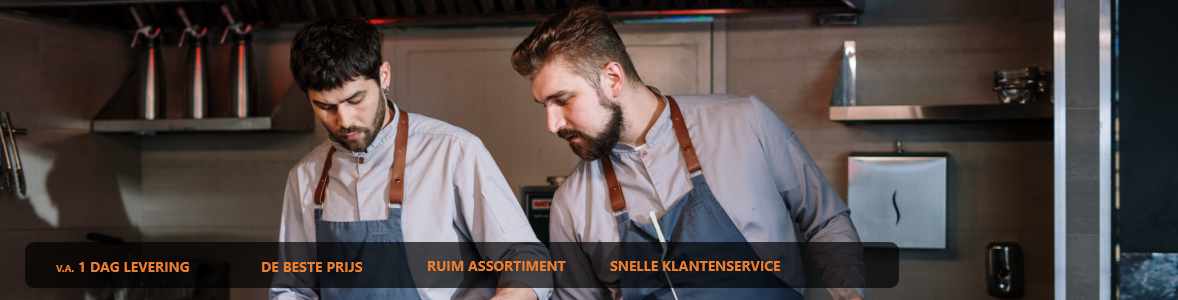
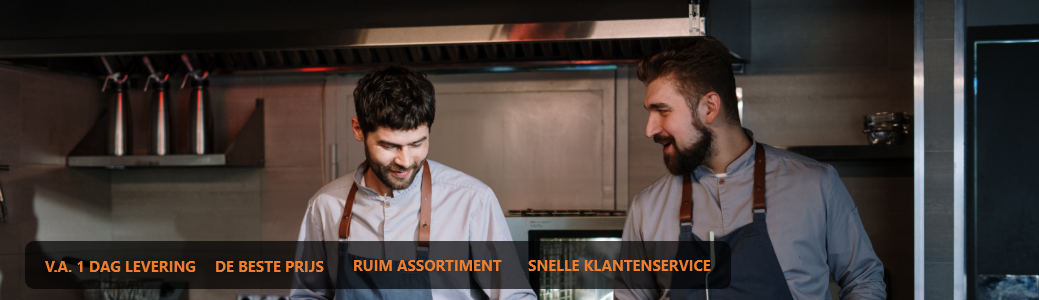
Various changes

diff --git a/skin/frontend/rwd/dhh/css/styles.css b/skin/frontend/rwd/dhh/css/styles.css
@@ -10029,14 +10029,6 @@ section.cms .ico-pinterest {
   z-index: 2;
 }
 
-.marker--active .marker__content {
-  z-index: 3;
-  opacity: 1;
-  -webkit-transform: scale(1);
-  -ms-transform: scale(1);
-  transform: scale(1);
-}
-
 .marker__btn {
   position: relative;
   z-index: 1;
@@ -10089,29 +10081,6 @@ section.cms .ico-pinterest {
 
 .marker__btn--white:after {
   border-color: #fff;
-}
-
-.marker__content {
-  position: absolute;
-  top: -40px;
-  left: 50%;
-  display: block;
-  margin-left: -110px;
-  width: 220px;
-  opacity: 0;
-  -webkit-transition: opacity .3s ease, -webkit-transform .3s ease;
-  transition: transform .3s ease, opacity .3s ease;
-  transition: transform .3s ease, opacity .3s ease, -webkit-transform .3s ease;
-  -webkit-transform: scale(0);
-  -ms-transform: scale(0);
-  transform: scale(0);
-  -webkit-transform-origin: 50% 44px;
-  -ms-transform-origin: 50% 44px;
-  transform-origin: 50% 44px;
-}
-
-.marker__content .product {
-  border-bottom: 0;
 }
 
 .figure__caption {
@@ -13598,17 +13567,18 @@ i.breadcrumb-separator {
 .clzinfopagetop,
 .clzinfopagetop a {
   color: #f3f3f3;
-  text-decoration: none;
 }
 
 .clzinfopagetop a {
   padding: 2px;
   border: 1px solid transparent;
   border-radius: 2px;
+  text-decoration: underline;
+  text-decoration-color: #fff;
 }
 
 .clzinfopagetop a:hover {
-  text-decoration: none;
+  /* text-decoration: none; */
   border: 1px solid #f3f3f3;
 }
 

diff --git a/app/code/local/DeHeerHoreca/Fpc/Helper/Data.php b/app/code/local/DeHeerHoreca/Fpc/Helper/Data.php
@@ -114,7 +114,18 @@ class DeHeerHoreca_Fpc_Helper_Data extends Mage_Core_Helper_Abstract {
       
       if($cache_key_prefix === "catalog_product_view") {
         $id = (int) Mage::app()->getFrontController()->getAction()->getRequest()->getParam("id");
-        $cache_key_prefix .= "-".$id;
+        $supplier = "";
+        // This is bit too heavy unfortunately
+        // $rm = Mage::getResourceModel("catalog/product");
+        // $value = $rm->getAttributeRawValue($id, "supplier", Mage::app()->getStore()->getStoreId());
+        // $collection = Mage::getResourceModel('catalog/product_collection')->addAttributeToSelect("supplier")->addIdFilter($id);
+        // $value = $collection->getColumnValues("supplier");
+        // if(empty($value) === false) {
+          // $supplier = array_pop($value);
+        // } else {
+          // $supplier = "-nosupplier";
+        // }
+        $cache_key_prefix .= "{$supplier}-{$id}";
       } elseif($cache_key_prefix === "catalog_category_view") {
         $id = (int) Mage::app()->getFrontController()->getAction()->getRequest()->getParam("id");
         $cache_key_prefix .= "-".$id;
@@ -232,21 +243,21 @@ class DeHeerHoreca_Fpc_Helper_Data extends Mage_Core_Helper_Abstract {
       // Formkey (CSRF protection)
       
       if($skip_formkey === false) {
-        Varien_Profiler::start('DHH::FPC::Holepunch::formkey');
+        Varien_Profiler::start("DHH::FPC::Holepunch::formkey");
         $search = "<!-- fpc form_key_placeholder -->";
         $formKey = Mage::getSingleton("core/session")->getFormKey();
         if(empty($formKey) === false) {
           $html = str_replace($search, $formKey, $html, $count);
           self::log("Replaced {$search} {$count} times");
         }
-        Varien_Profiler::stop('DHH::FPC::Holepunch::formkey');
+        Varien_Profiler::stop("DHH::FPC::Holepunch::formkey");
       }
       
       if($replace_blocks === true) {
         
         // The sidebar, is PART OF the minicart
         
-        Varien_Profiler::start('DHH::FPC::Holepunch::minicart');
+        Varien_Profiler::start("DHH::FPC::Holepunch::minicart");
         $minicart_html = Mage::app()
           ->getLayout()
           ->createBlock("checkout/cart_minicart")
@@ -263,11 +274,11 @@ class DeHeerHoreca_Fpc_Helper_Data extends Mage_Core_Helper_Abstract {
         $search = "<!-- header_minicart_here -->";
         $html = str_replace($search, $minicart_html, $html, $count);
         self::log("Replaced {$search} {$count} times");
-        Varien_Profiler::stop('DHH::FPC::Holepunch::minicart');
+        Varien_Profiler::stop("DHH::FPC::Holepunch::minicart");
         
         // core_messages
         
-        Varien_Profiler::start('DHH::FPC::Holepunch::messages_html');
+        Varien_Profiler::start("DHH::FPC::Holepunch::messages_html");
         $messages_html .= Mage::app()
           ->getLayout()
           ->createBlock("core/messages")
@@ -276,11 +287,11 @@ class DeHeerHoreca_Fpc_Helper_Data extends Mage_Core_Helper_Abstract {
         $search = "<!-- core_messages_here -->";
         $html = str_replace($search, $messages_html, $html, $count);
         self::log("Replaced {$search} {$count} times");
-        Varien_Profiler::stop('DHH::FPC::Holepunch::messages_html');
+        Varien_Profiler::stop("DHH::FPC::Holepunch::messages_html");
         
         // miniquote
         
-        Varien_Profiler::start('DHH::FPC::Holepunch::miniquote_html');
+        Varien_Profiler::start("DHH::FPC::Holepunch::miniquote_html");
         $miniquote_html = Mage::app()
           ->getLayout()
           ->createBlock("qquoteadv/checkout_miniquote_miniquote")
@@ -289,19 +300,19 @@ class DeHeerHoreca_Fpc_Helper_Data extends Mage_Core_Helper_Abstract {
         $search = "<!-- header_miniquote_here -->";
         $html = str_replace($search, $miniquote_html, $html, $count);
         self::log("Replaced {$search} {$count} times");
-        Varien_Profiler::stop('DHH::FPC::Holepunch::miniquote_html');
+        Varien_Profiler::stop("DHH::FPC::Holepunch::miniquote_html");
         
         // // Breadcrumbs block -- only for catalog_product_view
         // Seems impossible: the current product object is not available at this point
         
         // if(DHH_FPC_DEBUG === true) {
-          // Varien_Profiler::start('DHH::FPC::Holepunch::breadcrumbs_html');
+          // Varien_Profiler::start("DHH::FPC::Holepunch::breadcrumbs_html");
           // if(Mage::app()->getFrontController()->getAction()->getFullActionName() === "catalog_product_view") {
             // $breadcrumbs_html = Mage::app()->getLayout()->getBlock("breadcrumbs");
             // $breadcrumbs_html = Mage::app()
               // ->getLayout()
-              // ->createBlock('richsnippets/product')
-              // ->setTemplate('tm/richsnippets/richsnippets_view.phtml')
+              // ->createBlock("richsnippets/product")
+              // ->setTemplate("tm/richsnippets/richsnippets_view.phtml")
               // ->toHtml();
               
               
@@ -318,7 +329,7 @@ class DeHeerHoreca_Fpc_Helper_Data extends Mage_Core_Helper_Abstract {
             // self::log($breadcrumbs_html);
             // self::log("Replaced {$search} {$count} times (".strlen($breadcrumbs_html)." chars)");
           // }
-          // Varien_Profiler::stop('DHH::FPC::Holepunch::breadcrumbs_html');
+          // Varien_Profiler::stop("DHH::FPC::Holepunch::breadcrumbs_html");
         // }
         
         // Mage::getSingleton("core/session")->addNotice(Mage::helper("core")->__("Notice ".date("c")));

diff --git a/app/code/community/Geissweb/InvoiceAutoSend/Model/Email/Template/Amasty/Pure.php b/app/code/community/Geissweb/InvoiceAutoSend/Model/Email/Template/Amasty/Pure.php
@@ -1,3 +1,9 @@
-<?php /* added automatically by conflict fixing tool */ if (Mage::getConfig()->getNode('modules/Ebizmarts_MailChimp/active')) {
-            class Geissweb_InvoiceAutoSend_Model_Email_Template_Amasty_Pure extends Ebizmarts_MailChimp_Model_Email_Template {}
-        } else { class Geissweb_InvoiceAutoSend_Model_Email_Template_Amasty_Pure extends Geissweb_InvoiceAutoSend_Model_Email_TemplateRewrite {} } ?>
+<?php
+// DHH: this is not used anymore since reverting /var/www/vhosts/chefstore.nl/httpdocs/deheerhoreca-magento/app/code/community/Geissweb/InvoiceAutoSend/Model/Email/Template.php
+/* added automatically by conflict fixing tool */
+if(Mage::getConfig()->getNode('modules/Ebizmarts_MailChimp/active') && Mage::helper('core')->isModuleEnabled('Ebizmarts_MailChimp')) {
+  // class Geissweb_InvoiceAutoSend_Model_Email_Template_Amasty_Pure extends Ebizmarts_MailChimp_Model_Email_Template {}
+  class Geissweb_InvoiceAutoSend_Model_Email_Template_Amasty_Pure extends Geissweb_InvoiceAutoSend_Model_Email_TemplateRewrite {}
+} else {
+  class Geissweb_InvoiceAutoSend_Model_Email_Template_Amasty_Pure extends Geissweb_InvoiceAutoSend_Model_Email_TemplateRewrite {}
+}

diff --git a/file.php b/file.php
@@ -1,0 +1,11 @@
+<?php
+
+if(empty($_GET["id"]) === true) {
+  header("Location: /", true, 301);
+}
+
+$method         = "aes128";
+$iv             = str_repeat("a", openssl_cipher_iv_length($method));
+$url            = openssl_decrypt(base64_decode($_GET["id"]), $method, "wijdelengeenurls", 0, $iv);
+
+header("Location: {$url}", true, 301);

diff --git a/app/code/community/Geissweb/InvoiceAutoSend/Model/Email/Template.php b/app/code/community/Geissweb/InvoiceAutoSend/Model/Email/Template.php
@@ -20,7 +20,7 @@
  * @license     https://www.geissweb.de/eula/ GEISSWEB End User License Agreement
  */
 
-class Geissweb_InvoiceAutoSend_Model_Email_Template extends Geissweb_InvoiceAutoSend_Model_Email_Template_Amasty_Pure //Mirasvit_EmailSmtp_Model_Email_Template
+class Geissweb_InvoiceAutoSend_Model_Email_Template extends Geissweb_InvoiceAutoSend_Model_Email_TemplateRewrite //Mirasvit_EmailSmtp_Model_Email_Template
 {
     /**
      * Retrieve mail object instance